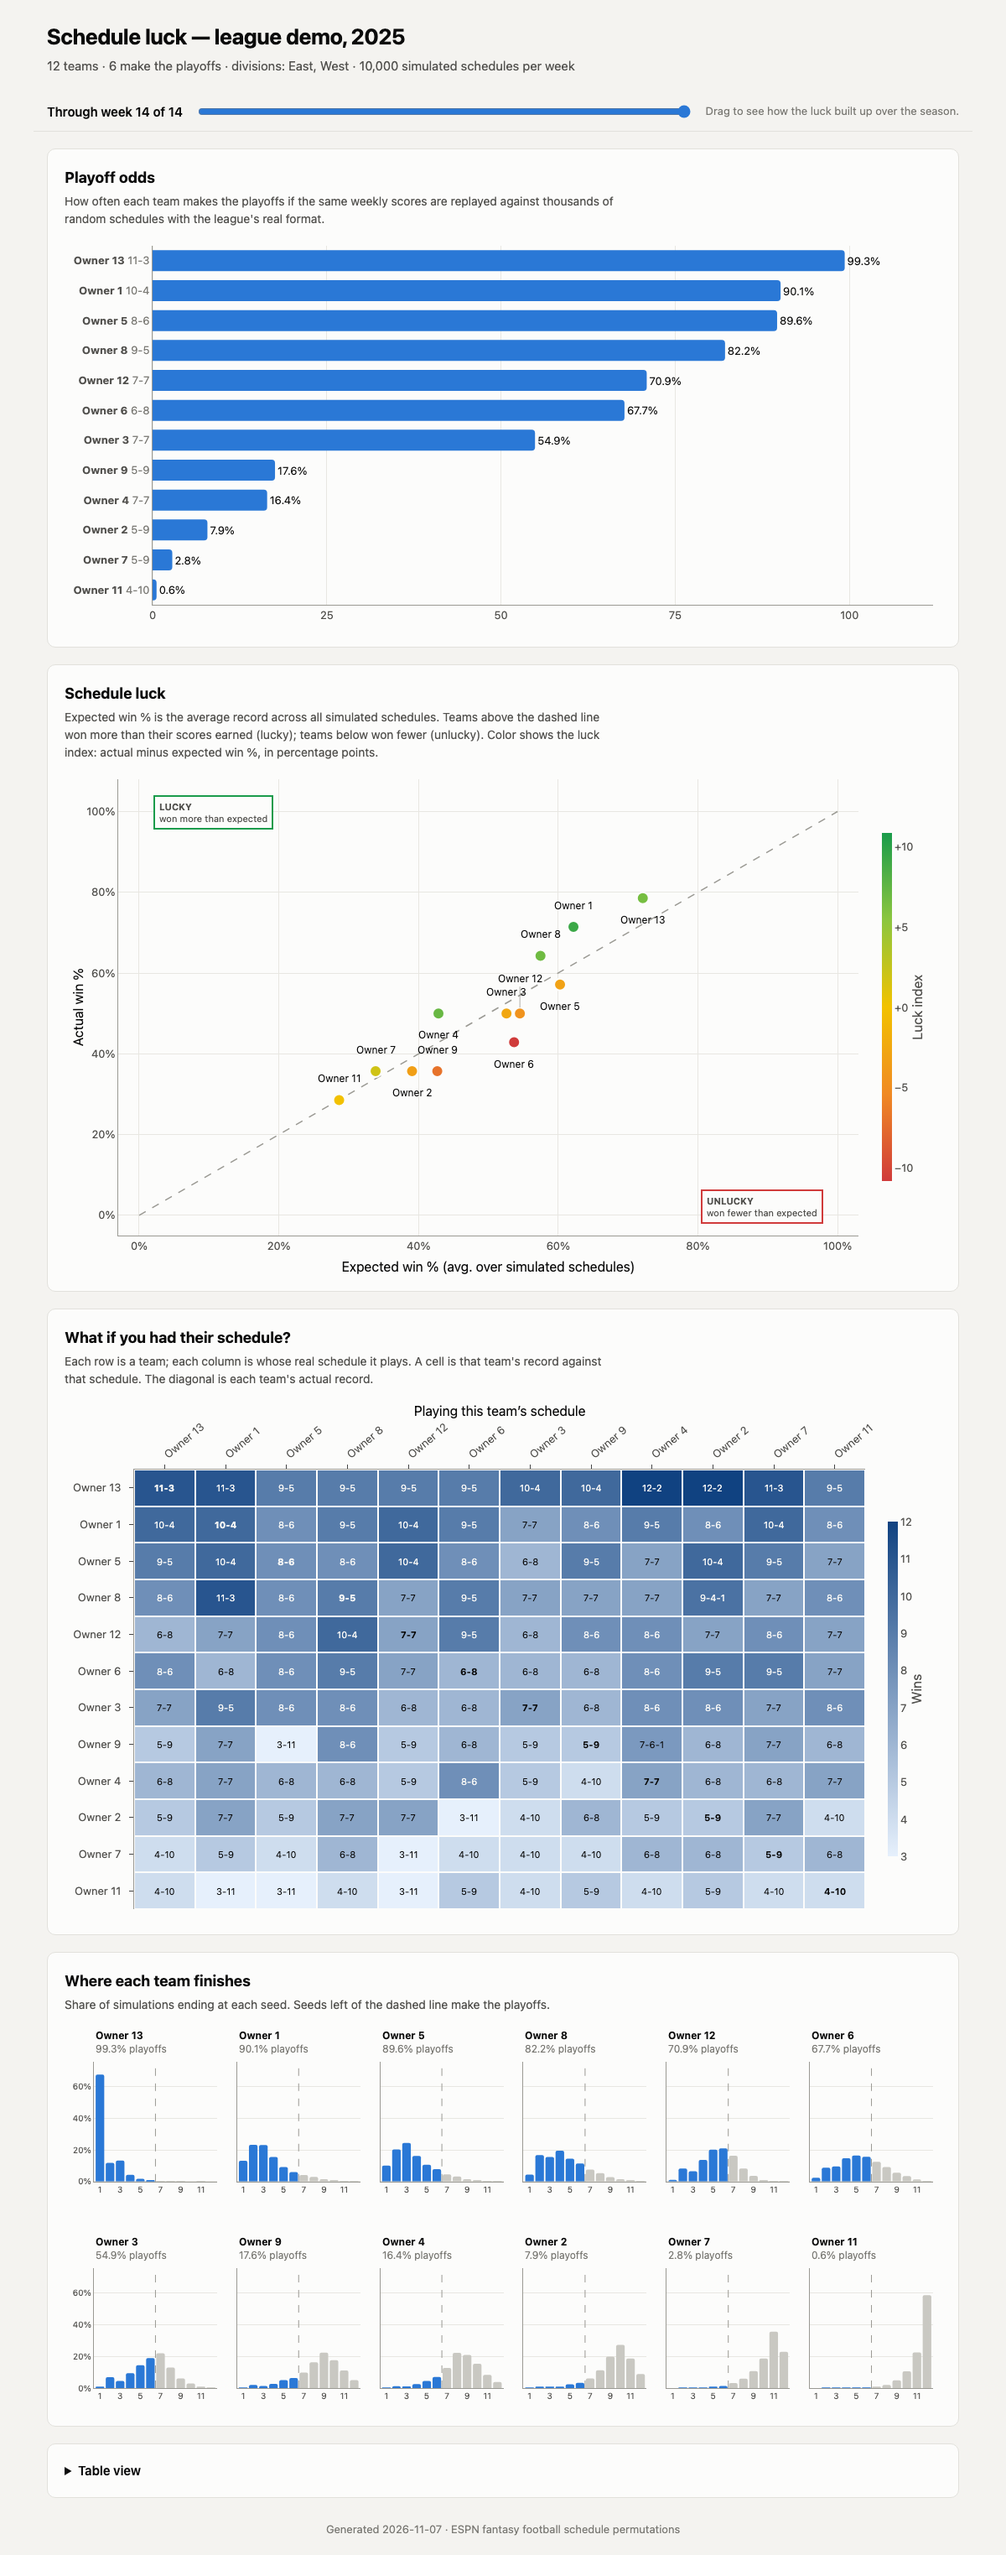
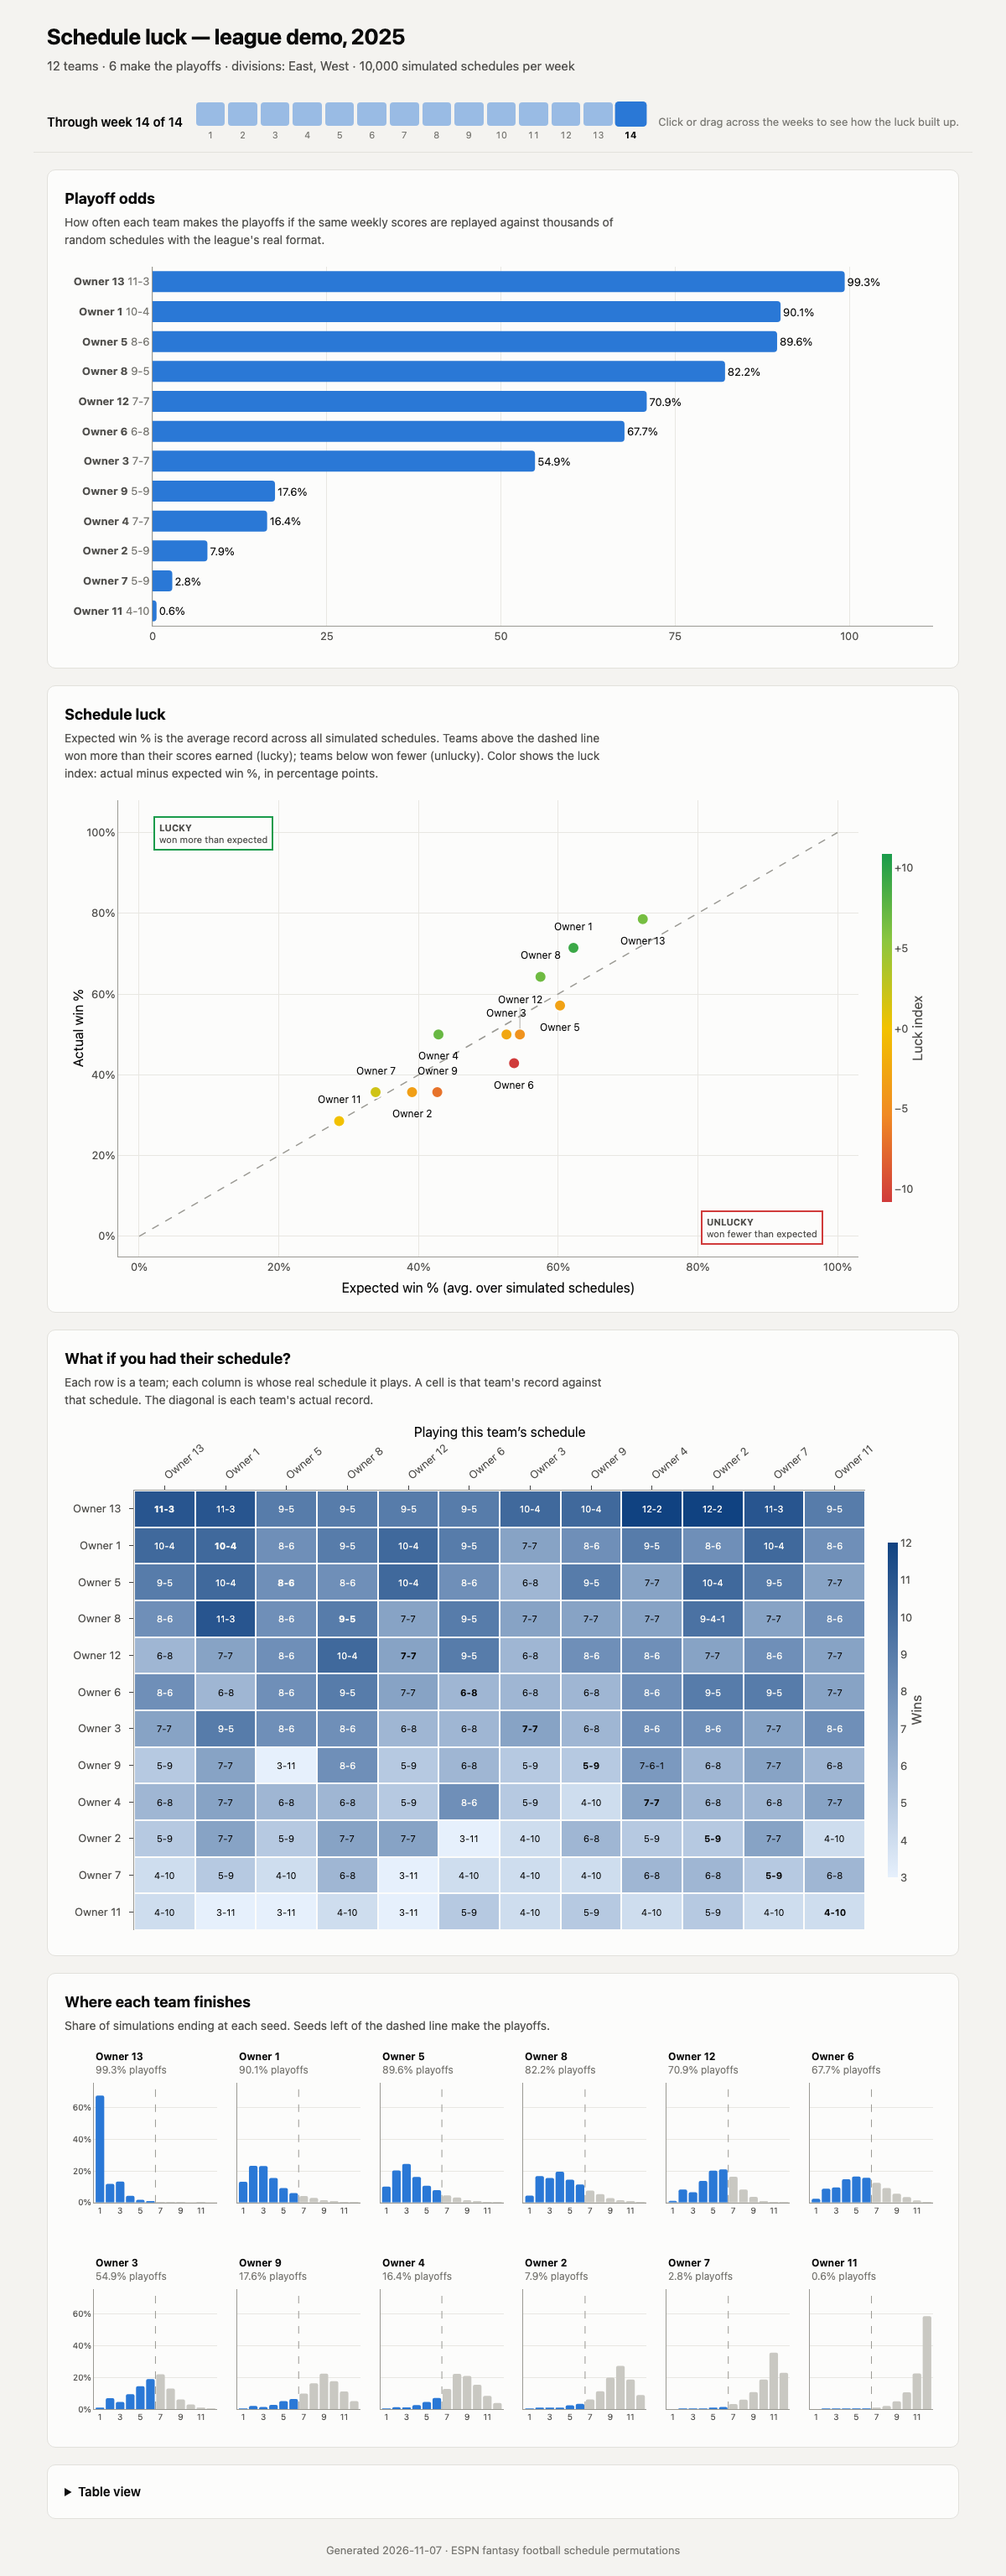
update report template

diff --git a/report_template.html b/report_template.html
@@ -77,9 +77,30 @@ __PLOTLY__
     border-bottom: 1px solid var(--border);
     display: flex; flex-wrap: wrap; gap: 8px 16px; align-items: center;
   }
-  .controls label { font-weight: 600; white-space: nowrap; }
-  .controls input[type=range] { flex: 1 1 220px; accent-color: var(--accent); }
+  .controls .label { font-weight: 600; white-space: nowrap; }
   .controls .hint { color: var(--text-muted); font-size: 13px; }
+  /* Stepped week slider: one square block per week, labeled underneath */
+  .weeks {
+    flex: 1 1 260px; display: flex; gap: 4px; max-width: 640px;
+    touch-action: none; user-select: none; -webkit-user-select: none;
+    border-radius: 6px; outline-offset: 4px;
+  }
+  .weeks:focus-visible { outline: 2px solid var(--accent); }
+  .week {
+    flex: 1 1 0; min-width: 0; max-width: 44px;
+    display: flex; flex-direction: column; align-items: center; gap: 3px;
+    cursor: pointer;
+  }
+  .week .block {
+    width: 100%; aspect-ratio: 1; max-height: 28px;
+    border-radius: 4px; background: var(--bar-off);
+    transition: background-color 120ms ease, transform 120ms ease;
+  }
+  .week.on .block { background: var(--accent); opacity: 0.45; }
+  .week.current .block { background: var(--accent); opacity: 1; transform: scale(1.08); }
+  .week:hover .block { opacity: 0.8; }
+  .week .num { font-size: 11px; color: var(--text-muted); font-variant-numeric: tabular-nums; }
+  .week.current .num { color: var(--text-primary); font-weight: 700; }
   .notes {
     margin: 16px 0 0; padding: 10px 14px;
     background: var(--note-bg); border-left: 3px solid var(--note-border);
@@ -112,8 +133,8 @@ __PLOTLY__
   </header>
 
   <div class="controls" id="controls">
-    <label for="week">Through week <span id="week-label"></span></label>
-    <input type="range" id="week" min="1" step="1">
+    <span class="label" id="week-title">Through week <span id="week-label"></span></span>
+    <div class="weeks" id="week" role="slider" tabindex="0" aria-labelledby="week-title"></div>
     <span class="hint" id="week-hint"></span>
   </div>
 
@@ -209,14 +230,60 @@ __PLOTLY__
     notes.hidden = false;
   }
 
+  // Stepped week slider: click a week, drag across weeks, or use arrow keys
   const slider = document.getElementById('week');
   const cutoffs = DATA.weeks.map((w) => w.week);
-  slider.min = 0; slider.max = cutoffs.length - 1; slider.value = cutoffs.length - 1;
+  let current = cutoffs.length - 1;
+  slider.innerHTML = cutoffs.map((wk, i) =>
+    `<div class="week" data-i="${i}"><div class="block"></div><span class="num">${wk}</span></div>`).join('');
+  slider.setAttribute('aria-valuemin', cutoffs[0]);
+  slider.setAttribute('aria-valuemax', cutoffs[cutoffs.length - 1]);
+  const weekEls = [...slider.children];
+
+  function paintWeeks() {
+    weekEls.forEach((el, i) => {
+      el.classList.toggle('on', i < current);
+      el.classList.toggle('current', i === current);
+    });
+    slider.setAttribute('aria-valuenow', cutoffs[current]);
+    slider.setAttribute('aria-valuetext', `Through week ${cutoffs[current]}`);
+  }
+
+  function selectWeek(i) {
+    i = Math.max(0, Math.min(cutoffs.length - 1, i));
+    if (i === current) return;
+    current = i;
+    history.replaceState(null, '', `#week=${cutoffs[current]}`);
+    render();
+  }
+
+  function weekAt(clientX) {
+    const index = weekEls.findIndex((el) => {
+      const r = el.getBoundingClientRect();
+      return clientX <= r.right + 2;
+    });
+    return index === -1 ? cutoffs.length - 1 : index;
+  }
+
+  slider.addEventListener('pointerdown', (e) => {
+    slider.setPointerCapture(e.pointerId);
+    selectWeek(weekAt(e.clientX));
+  });
+  slider.addEventListener('pointermove', (e) => {
+    if (slider.hasPointerCapture(e.pointerId)) selectWeek(weekAt(e.clientX));
+  });
+  slider.addEventListener('keydown', (e) => {
+    const step = { ArrowLeft: -1, ArrowDown: -1, ArrowRight: 1, ArrowUp: 1 }[e.key];
+    if (step) { e.preventDefault(); selectWeek(current + step); }
+    if (e.key === 'Home') { e.preventDefault(); selectWeek(0); }
+    if (e.key === 'End') { e.preventDefault(); selectWeek(cutoffs.length - 1); }
+  });
+
   if (cutoffs.length === 1) {
     slider.hidden = true;
     document.getElementById('week-hint').textContent = 'Only the full season is available (no schedule file).';
   } else {
-    document.getElementById('week-hint').textContent = 'Drag to see how the luck built up over the season.';
+    document.getElementById('week-hint').textContent = 'Click or drag across the weeks to see how the luck built up.';
   }
 
   // ---------------------------------------------------------------- charts
@@ -429,8 +496,9 @@ __PLOTLY__
   }
 
   function render() {
-    const w = DATA.weeks[Number(slider.value)];
+    const w = DATA.weeks[current];
     document.getElementById('week-label').textContent = `${w.week} of ${L.weeks_played}`;
+    paintWeeks();
     const t = theme();
     drawPlayoff(w, t);
     drawLuck(w, t);
@@ -441,11 +509,7 @@ __PLOTLY__
 
   // #week=N in the URL opens the report at that week (handy for sharing)
   const linked = cutoffs.indexOf(Number((location.hash.match(/week=(\d+)/) || [])[1]));
-  if (linked >= 0) slider.value = linked;
-  slider.addEventListener('input', () => {
-    history.replaceState(null, '', `#week=${cutoffs[Number(slider.value)]}`);
-    render();
-  });
+  if (linked >= 0) current = linked;
   let resizeTimer;
   window.addEventListener('resize', () => { clearTimeout(resizeTimer); resizeTimer = setTimeout(render, 200); });
   window.matchMedia('(prefers-color-scheme: dark)').addEventListener('change', render);

diff --git a/output_example/leaguedemo_year2025/leaguedemo_year2025_report.html b/output_example/leaguedemo_year2025/leaguedemo_year2025_report.html
@@ -77,9 +77,30 @@
     border-bottom: 1px solid var(--border);
     display: flex; flex-wrap: wrap; gap: 8px 16px; align-items: center;
   }
-  .controls label { font-weight: 600; white-space: nowrap; }
-  .controls input[type=range] { flex: 1 1 220px; accent-color: var(--accent); }
+  .controls .label { font-weight: 600; white-space: nowrap; }
   .controls .hint { color: var(--text-muted); font-size: 13px; }
+  /* Stepped week slider: one square block per week, labeled underneath */
+  .weeks {
+    flex: 1 1 260px; display: flex; gap: 4px; max-width: 640px;
+    touch-action: none; user-select: none; -webkit-user-select: none;
+    border-radius: 6px; outline-offset: 4px;
+  }
+  .weeks:focus-visible { outline: 2px solid var(--accent); }
+  .week {
+    flex: 1 1 0; min-width: 0; max-width: 44px;
+    display: flex; flex-direction: column; align-items: center; gap: 3px;
+    cursor: pointer;
+  }
+  .week .block {
+    width: 100%; aspect-ratio: 1; max-height: 28px;
+    border-radius: 4px; background: var(--bar-off);
+    transition: background-color 120ms ease, transform 120ms ease;
+  }
+  .week.on .block { background: var(--accent); opacity: 0.45; }
+  .week.current .block { background: var(--accent); opacity: 1; transform: scale(1.08); }
+  .week:hover .block { opacity: 0.8; }
+  .week .num { font-size: 11px; color: var(--text-muted); font-variant-numeric: tabular-nums; }
+  .week.current .num { color: var(--text-primary); font-weight: 700; }
   .notes {
     margin: 16px 0 0; padding: 10px 14px;
     background: var(--note-bg); border-left: 3px solid var(--note-border);
@@ -112,8 +133,8 @@
   </header>
 
   <div class="controls" id="controls">
-    <label for="week">Through week <span id="week-label"></span></label>
-    <input type="range" id="week" min="1" step="1">
+    <span class="label" id="week-title">Through week <span id="week-label"></span></span>
+    <div class="weeks" id="week" role="slider" tabindex="0" aria-labelledby="week-title"></div>
     <span class="hint" id="week-hint"></span>
   </div>
 
@@ -209,14 +230,60 @@
     notes.hidden = false;
   }
 
+  // Stepped week slider: click a week, drag across weeks, or use arrow keys
   const slider = document.getElementById('week');
   const cutoffs = DATA.weeks.map((w) => w.week);
-  slider.min = 0; slider.max = cutoffs.length - 1; slider.value = cutoffs.length - 1;
+  let current = cutoffs.length - 1;
+  slider.innerHTML = cutoffs.map((wk, i) =>
+    `<div class="week" data-i="${i}"><div class="block"></div><span class="num">${wk}</span></div>`).join('');
+  slider.setAttribute('aria-valuemin', cutoffs[0]);
+  slider.setAttribute('aria-valuemax', cutoffs[cutoffs.length - 1]);
+  const weekEls = [...slider.children];
+
+  function paintWeeks() {
+    weekEls.forEach((el, i) => {
+      el.classList.toggle('on', i < current);
+      el.classList.toggle('current', i === current);
+    });
+    slider.setAttribute('aria-valuenow', cutoffs[current]);
+    slider.setAttribute('aria-valuetext', `Through week ${cutoffs[current]}`);
+  }
+
+  function selectWeek(i) {
+    i = Math.max(0, Math.min(cutoffs.length - 1, i));
+    if (i === current) return;
+    current = i;
+    history.replaceState(null, '', `#week=${cutoffs[current]}`);
+    render();
+  }
+
+  function weekAt(clientX) {
+    const index = weekEls.findIndex((el) => {
+      const r = el.getBoundingClientRect();
+      return clientX <= r.right + 2;
+    });
+    return index === -1 ? cutoffs.length - 1 : index;
+  }
+
+  slider.addEventListener('pointerdown', (e) => {
+    slider.setPointerCapture(e.pointerId);
+    selectWeek(weekAt(e.clientX));
+  });
+  slider.addEventListener('pointermove', (e) => {
+    if (slider.hasPointerCapture(e.pointerId)) selectWeek(weekAt(e.clientX));
+  });
+  slider.addEventListener('keydown', (e) => {
+    const step = { ArrowLeft: -1, ArrowDown: -1, ArrowRight: 1, ArrowUp: 1 }[e.key];
+    if (step) { e.preventDefault(); selectWeek(current + step); }
+    if (e.key === 'Home') { e.preventDefault(); selectWeek(0); }
+    if (e.key === 'End') { e.preventDefault(); selectWeek(cutoffs.length - 1); }
+  });
+
   if (cutoffs.length === 1) {
     slider.hidden = true;
     document.getElementById('week-hint').textContent = 'Only the full season is available (no schedule file).';
   } else {
-    document.getElementById('week-hint').textContent = 'Drag to see how the luck built up over the season.';
+    document.getElementById('week-hint').textContent = 'Click or drag across the weeks to see how the luck built up.';
   }
 
   // ---------------------------------------------------------------- charts
@@ -429,8 +496,9 @@
   }
 
   function render() {
-    const w = DATA.weeks[Number(slider.value)];
+    const w = DATA.weeks[current];
     document.getElementById('week-label').textContent = `${w.week} of ${L.weeks_played}`;
+    paintWeeks();
     const t = theme();
     drawPlayoff(w, t);
     drawLuck(w, t);
@@ -441,11 +509,7 @@
 
   // #week=N in the URL opens the report at that week (handy for sharing)
   const linked = cutoffs.indexOf(Number((location.hash.match(/week=(\d+)/) || [])[1]));
-  if (linked >= 0) slider.value = linked;
-  slider.addEventListener('input', () => {
-    history.replaceState(null, '', `#week=${cutoffs[Number(slider.value)]}`);
-    render();
-  });
+  if (linked >= 0) current = linked;
   let resizeTimer;
   window.addEventListener('resize', () => { clearTimeout(resizeTimer); resizeTimer = setTimeout(render, 200); });
   window.matchMedia('(prefers-color-scheme: dark)').addEventListener('change', render);
